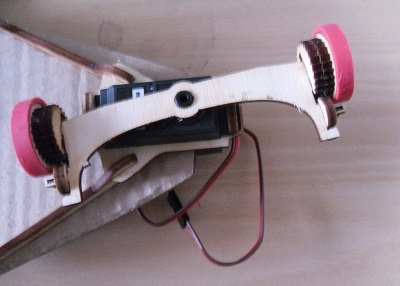
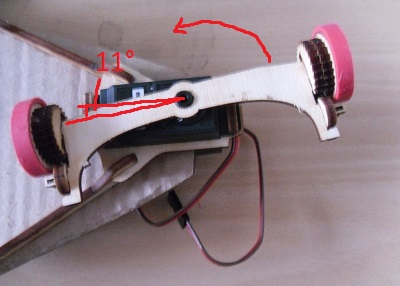
Beuanleitung Rödel

Changed region(s): [[0.15, 0.2797, 0.48, 0.4476], [0.42, 0.0559, 0.69, 0.2238], [0.24, 0.1678, 0.36, 0.2517]]

diff --git a/roedel/bauanleitung/README.md b/roedel/bauanleitung/README.md
@@ -128,10 +128,11 @@ Auf hier wieder mit etwas Kleber auf dem Loch außen den Stecker befestigen.
 
 
 ![](bilder/21.jpg)  
-Draufstecken. Es empfiehlt sich, den Servo erst auf eine Seite zu drehen und dann die Drehachse draufzustecken. 
+Draufstecken. Es empfiehlt sich, den Servo erst auf eine Seite zu drehen und dann die Drehachse draufzustecken. Der Drehwinkel beim ModelCraft-RS2 Servo ist 203°. Somit sollte die Achse 11,5° überdreht sein. 
 
 
 
 
 
 ![](bilder/22.jpg)  
+Jetzt kann man sich noch eine Platte ausschneiden und draufkleben.
